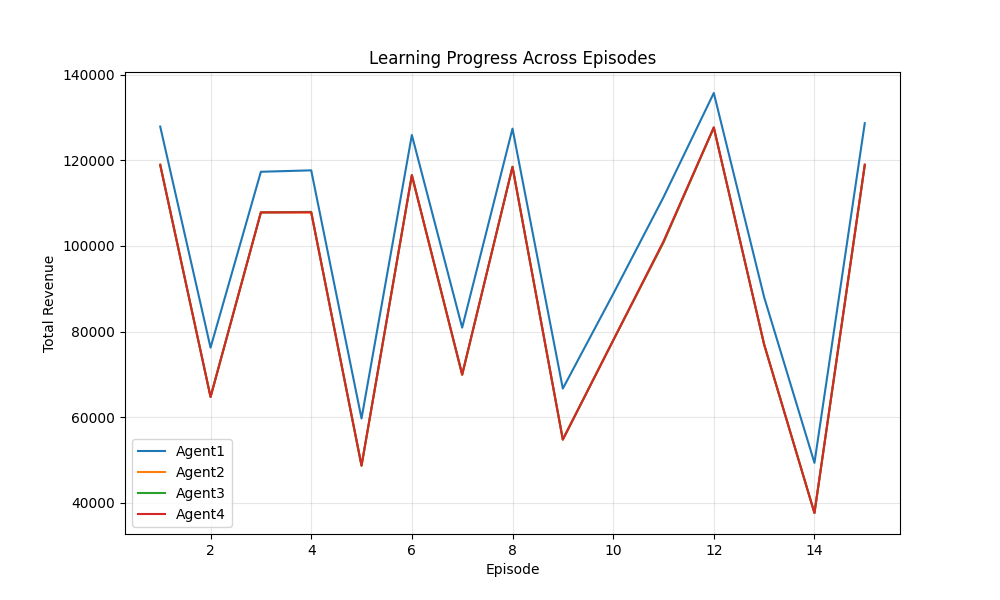
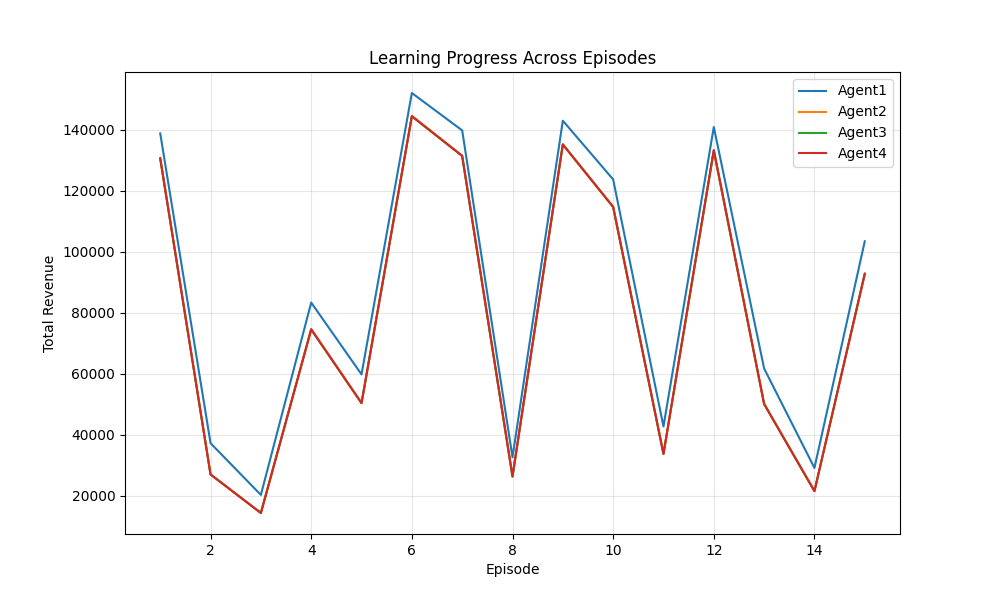
Fully centralized training and decentralized execution

diff --git a/agents/maddpg_agent.py b/agents/maddpg_agent.py
@@ -12,27 +12,33 @@ class ActorNetwork(tf.keras.Model):
     """Actor (Policy) Network for MADDPG"""
     def __init__(self, state_dim, action_dim, name='actor'):
         super(ActorNetwork, self).__init__(name=name)
-        self.fc1 = layers.Dense(256, activation='relu')
-        self.fc2 = layers.Dense(128, activation='relu')
-        self.fc3 = layers.Dense(64, activation='relu')
-        # Final layer with tanh activation for bounded actions [-1,1]
+        self.fc1 = layers.Dense(64, activation='relu', 
+                           kernel_regularizer=tf.keras.regularizers.l2(0.001))
+        self.fc2 = layers.Dense(64, activation='relu',
+                           kernel_regularizer=tf.keras.regularizers.l2(0.001))
         self.out = layers.Dense(action_dim, activation='tanh')
         
     def call(self, state):
         x = self.fc1(state)
         x = self.fc2(x)
-        x = self.fc3(x)
         return self.out(x)
 
 class CriticNetwork(tf.keras.Model):
     """Centralized Critic for MADDPG"""
     def __init__(self, state_dim, action_dim, num_agents=4, name='critic'):
         super(CriticNetwork, self).__init__(name=name)
-        self.state_fc = layers.Dense(128, activation='relu')
-        self.action_fc = layers.Dense(64, activation='relu')
+        self.state_fc = layers.Dense(128, activation='relu',
+                                kernel_regularizer=tf.keras.regularizers.l2(0.001))
+        self.action_fc = layers.Dense(64, activation='relu',
+                                 kernel_regularizer=tf.keras.regularizers.l2(0.001))
         self.concat = layers.Concatenate()
-        self.fc1 = layers.Dense(256, activation='relu')
-        self.fc2 = layers.Dense(128, activation='relu')
+        # Add layer normalization for better gradient flow
+        self.norm1 = layers.LayerNormalization()
+        self.fc1 = layers.Dense(256, activation='relu',
+                           kernel_regularizer=tf.keras.regularizers.l2(0.001))
+        self.norm2 = layers.LayerNormalization()
+        self.fc2 = layers.Dense(128, activation='relu',
+                           kernel_regularizer=tf.keras.regularizers.l2(0.001))
         self.out = layers.Dense(1)
         
     def call(self, all_states, all_actions):
@@ -42,7 +48,9 @@ class CriticNetwork(tf.keras.Model):
         a = self.action_fc(all_actions)
         x = self.concat([s, a])
         x = self.fc1(x)
+        x = self.norm1(x)  # Apply normalization
         x = self.fc2(x)
+        x = self.norm2(x)  # Apply normalization
         return self.out(x)
 
 class ReplayBuffer:
@@ -76,9 +84,13 @@ class ReplayBuffer:
 
 class MADDPGAgent(PricingAgent):
     def __init__(self, agent_id, products, state_dim=10, action_dim=1, 
-                 actor_lr=0.001, critic_lr=0.002, discount_factor=0.95,
-                 exploration_noise=0.3, noise_decay=0.9995, min_noise=0.05,
-                 batch_size=64, tau=0.01):
+                 actor_lr=0.0001,  # Reduced from 0.0005
+                 critic_lr=0.00001,  # Reduced from 0.0001
+                 buffer_size=100000,
+                 batch_size=64,
+                 discount_factor=0.95,  # Slightly reduced
+                 tau=0.001,  # Reduced from 0.005
+                 exploration_noise=0.2):
         super().__init__(agent_id, products)
         
         # Initialize revenue history
@@ -94,8 +106,8 @@ class MADDPGAgent(PricingAgent):
         self.critic_lr = critic_lr
         self.discount_factor = discount_factor
         self.exploration_noise = exploration_noise
-        self.noise_decay = noise_decay
-        self.min_noise = min_noise
+        self.noise_decay = 0.9995
+        self.min_noise = 0.05
         self.batch_size = batch_size
         self.tau = tau  # Target network update rate
         
@@ -107,8 +119,8 @@ class MADDPGAgent(PricingAgent):
         self._build_networks()
         
         # Initialize optimizers
-        self.actor_optimizer = optimizers.Adam(learning_rate=actor_lr)
-        self.critic_optimizer = optimizers.Adam(learning_rate=critic_lr)
+        self.actor_optimizer = tf.keras.optimizers.Adam(learning_rate=actor_lr, clipnorm=1.0)
+        self.critic_optimizer = tf.keras.optimizers.Adam(learning_rate=critic_lr, clipnorm=1.0)
         
         # Experience replay buffer
         self.buffer = ReplayBuffer()
@@ -419,21 +431,34 @@ class MADDPGAgent(PricingAgent):
             # Combine next actions from all agents
             joint_next_actions_flat = tf.concat(next_actions, axis=1)
             
-            # Train critic
+            # Train critic - with gradient clipping and checking
             with tf.GradientTape() as tape:
-                # Get target Q value
+                # Get target Q value (with clipping)
                 target_q = self.target_critic(joint_next_states_tensor, joint_next_actions_flat)
+                target_q = tf.clip_by_value(target_q, -10.0, 10.0)  # Clip to reasonable range
                 
                 # Compute target using Bellman equation
                 y = own_reward_tensor + self.discount_factor * (1 - dones_tensor) * target_q
                 
-                # Compute critic loss
+                # Compute critic loss (with clipping)
                 q_value = self.critic(joint_states_tensor, joint_actions_tensor)
+                q_value = tf.clip_by_value(q_value, -10.0, 10.0)  # Clip to reasonable range
                 critic_loss = tf.reduce_mean(tf.square(y - q_value))
             
-            # Apply critic gradients
+            # Apply critic gradients with error handling
             critic_grads = tape.gradient(critic_loss, self.critic.trainable_variables)
-            self.critic_optimizer.apply_gradients(zip(critic_grads, self.critic.trainable_variables))
+            
+            # Check if gradients exist
+            if None in critic_grads or any(tf.reduce_all(tf.math.is_nan(g)) for g in critic_grads if g is not None):
+                print("Warning: NaN or None gradients in critic update - skipping update")
+                
+                # Try to diagnose the problem
+                print(f"Target Q range: {tf.reduce_min(target_q):.4f} to {tf.reduce_max(target_q):.4f}")
+                print(f"Current Q range: {tf.reduce_min(q_value):.4f} to {tf.reduce_max(q_value):.4f}")
+            else:
+                # Clip gradients to prevent exploding gradients
+                critic_grads, _ = tf.clip_by_global_norm(critic_grads, 1.0)
+                self.critic_optimizer.apply_gradients(zip(critic_grads, self.critic.trainable_variables))
             
             # Train actor
             with tf.GradientTape() as tape:
@@ -447,14 +472,21 @@ class MADDPGAgent(PricingAgent):
                 actions_updated[:, my_idx] = my_actions.numpy()
                 actions_updated_flat = np.reshape(actions_updated, (batch_size, -1))
                 
-                # Compute actor loss (negative of Q value)
+                # Compute actor loss (negative of Q value) with stop_gradient for critic
                 actor_loss = -tf.reduce_mean(
                     self.critic(joint_states_tensor, tf.convert_to_tensor(actions_updated_flat, dtype=tf.float32))
                 )
             
-            # Apply actor gradients
+            # Apply actor gradients with error handling
             actor_grads = tape.gradient(actor_loss, self.actor.trainable_variables)
-            self.actor_optimizer.apply_gradients(zip(actor_grads, self.actor.trainable_variables))
+            
+            # Check if gradients exist
+            if None in actor_grads or any(tf.reduce_all(tf.math.is_nan(g)) for g in actor_grads if g is not None):
+                print("Warning: NaN or None gradients in actor update - skipping update")
+            else:
+                # Clip gradients to prevent exploding gradients
+                actor_grads, _ = tf.clip_by_global_norm(actor_grads, 1.0)
+                self.actor_optimizer.apply_gradients(zip(actor_grads, self.actor.trainable_variables))
             
             # Update target networks
             self.update_target_networks()

diff --git a/simulate.py b/simulate.py
@@ -179,7 +179,7 @@ def run_simulation(weeks=52, episodes=3, num_agents=4, agent_type="maddpg"):
                 
                 # Print weekly revenues (add this section)
                 if week % 1 == 0:
-                    print(f"Week {week+1}, Revenues:")
+                    print(f"Week {week+1}")
                     for agent_id, revenue in revenues.items():
                         print(f"  {agent_id}: ${revenue:.2f}")
 
@@ -197,7 +197,7 @@ def run_simulation(weeks=52, episodes=3, num_agents=4, agent_type="maddpg"):
                         next_joint_states.append(next_state)
                         
                         # Use revenue as reward
-                        reward = revenues.get(agent.agent_id, 0)
+                        reward = revenues.get(agent.agent_id, 0) / 1000.0 # Scale down by 1000
                         joint_rewards.append(reward)
                     
                     # Store transition in the coordinator and train

diff --git a/agents/maddpg_coordinator.py b/agents/maddpg_coordinator.py
@@ -74,6 +74,11 @@ class MADDPGCoordinator:
         if self.buffer.size() < self.batch_size:
             return
         
+        # Only train every 4 steps to stabilize learning
+        if self.training_step % 4 != 0:
+            self.training_step += 1
+            return
+        
         try:
             # Sample batch of joint experiences
             joint_states_batch, joint_actions_batch, rewards_batch, joint_next_states_batch, dones_batch = self.buffer.sample(self.batch_size)
